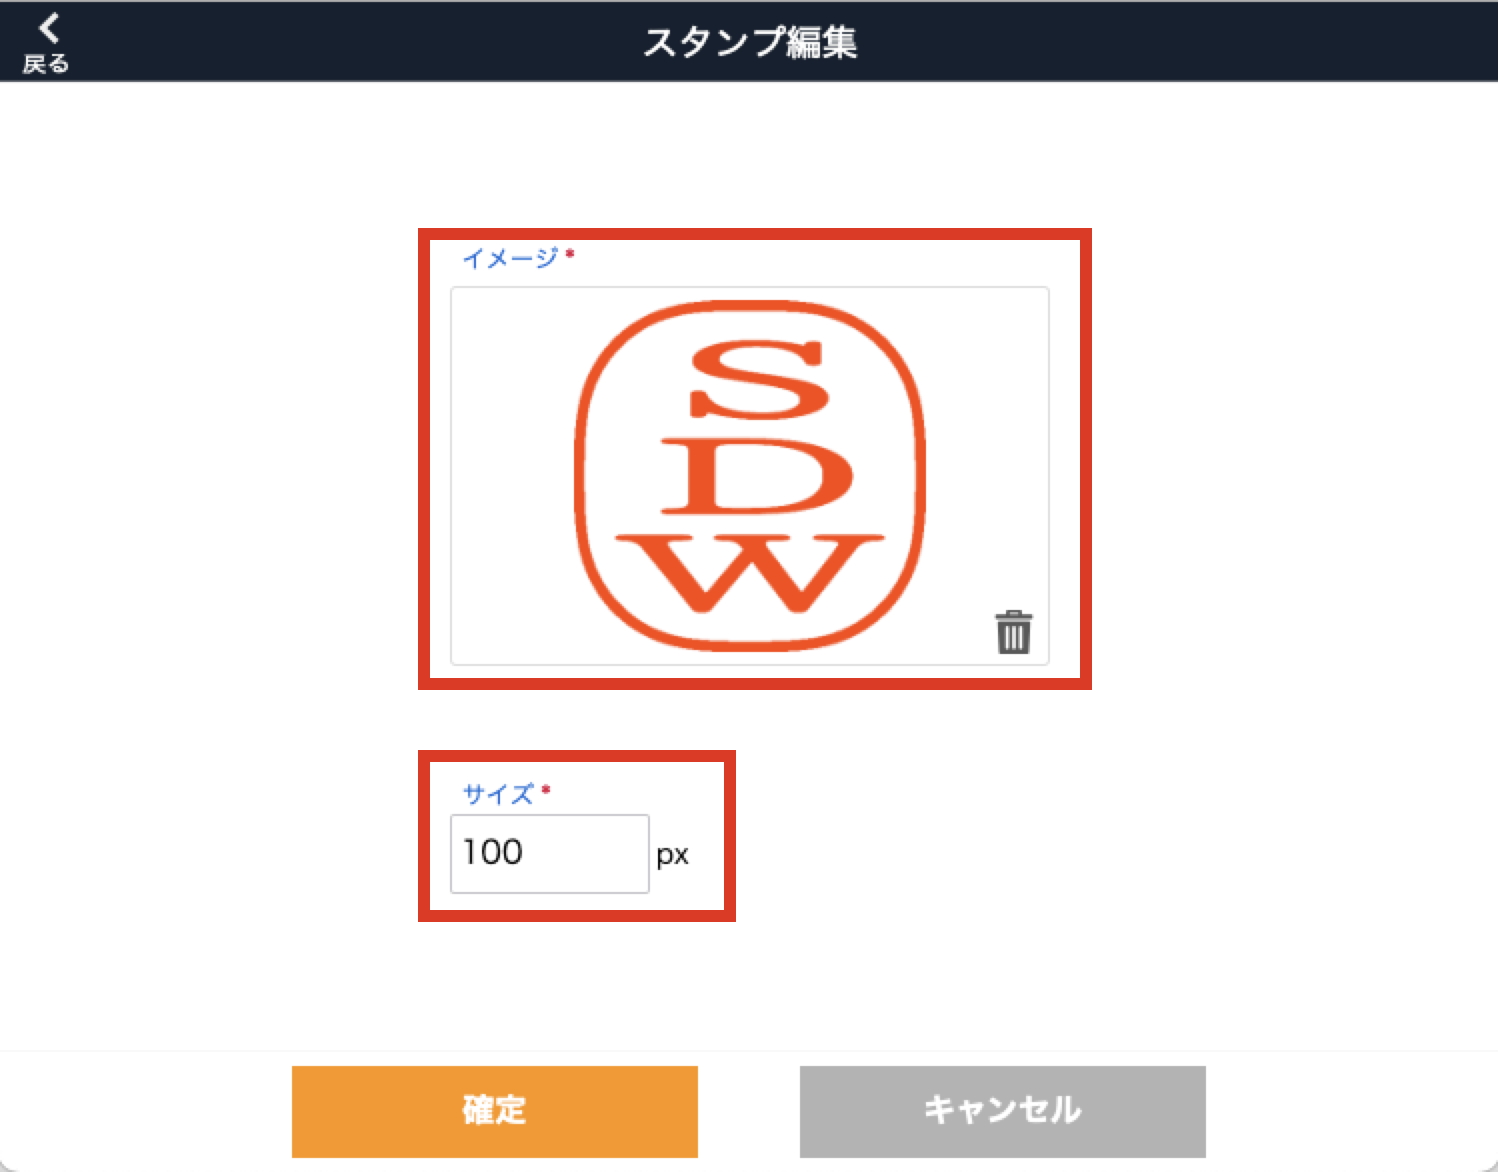
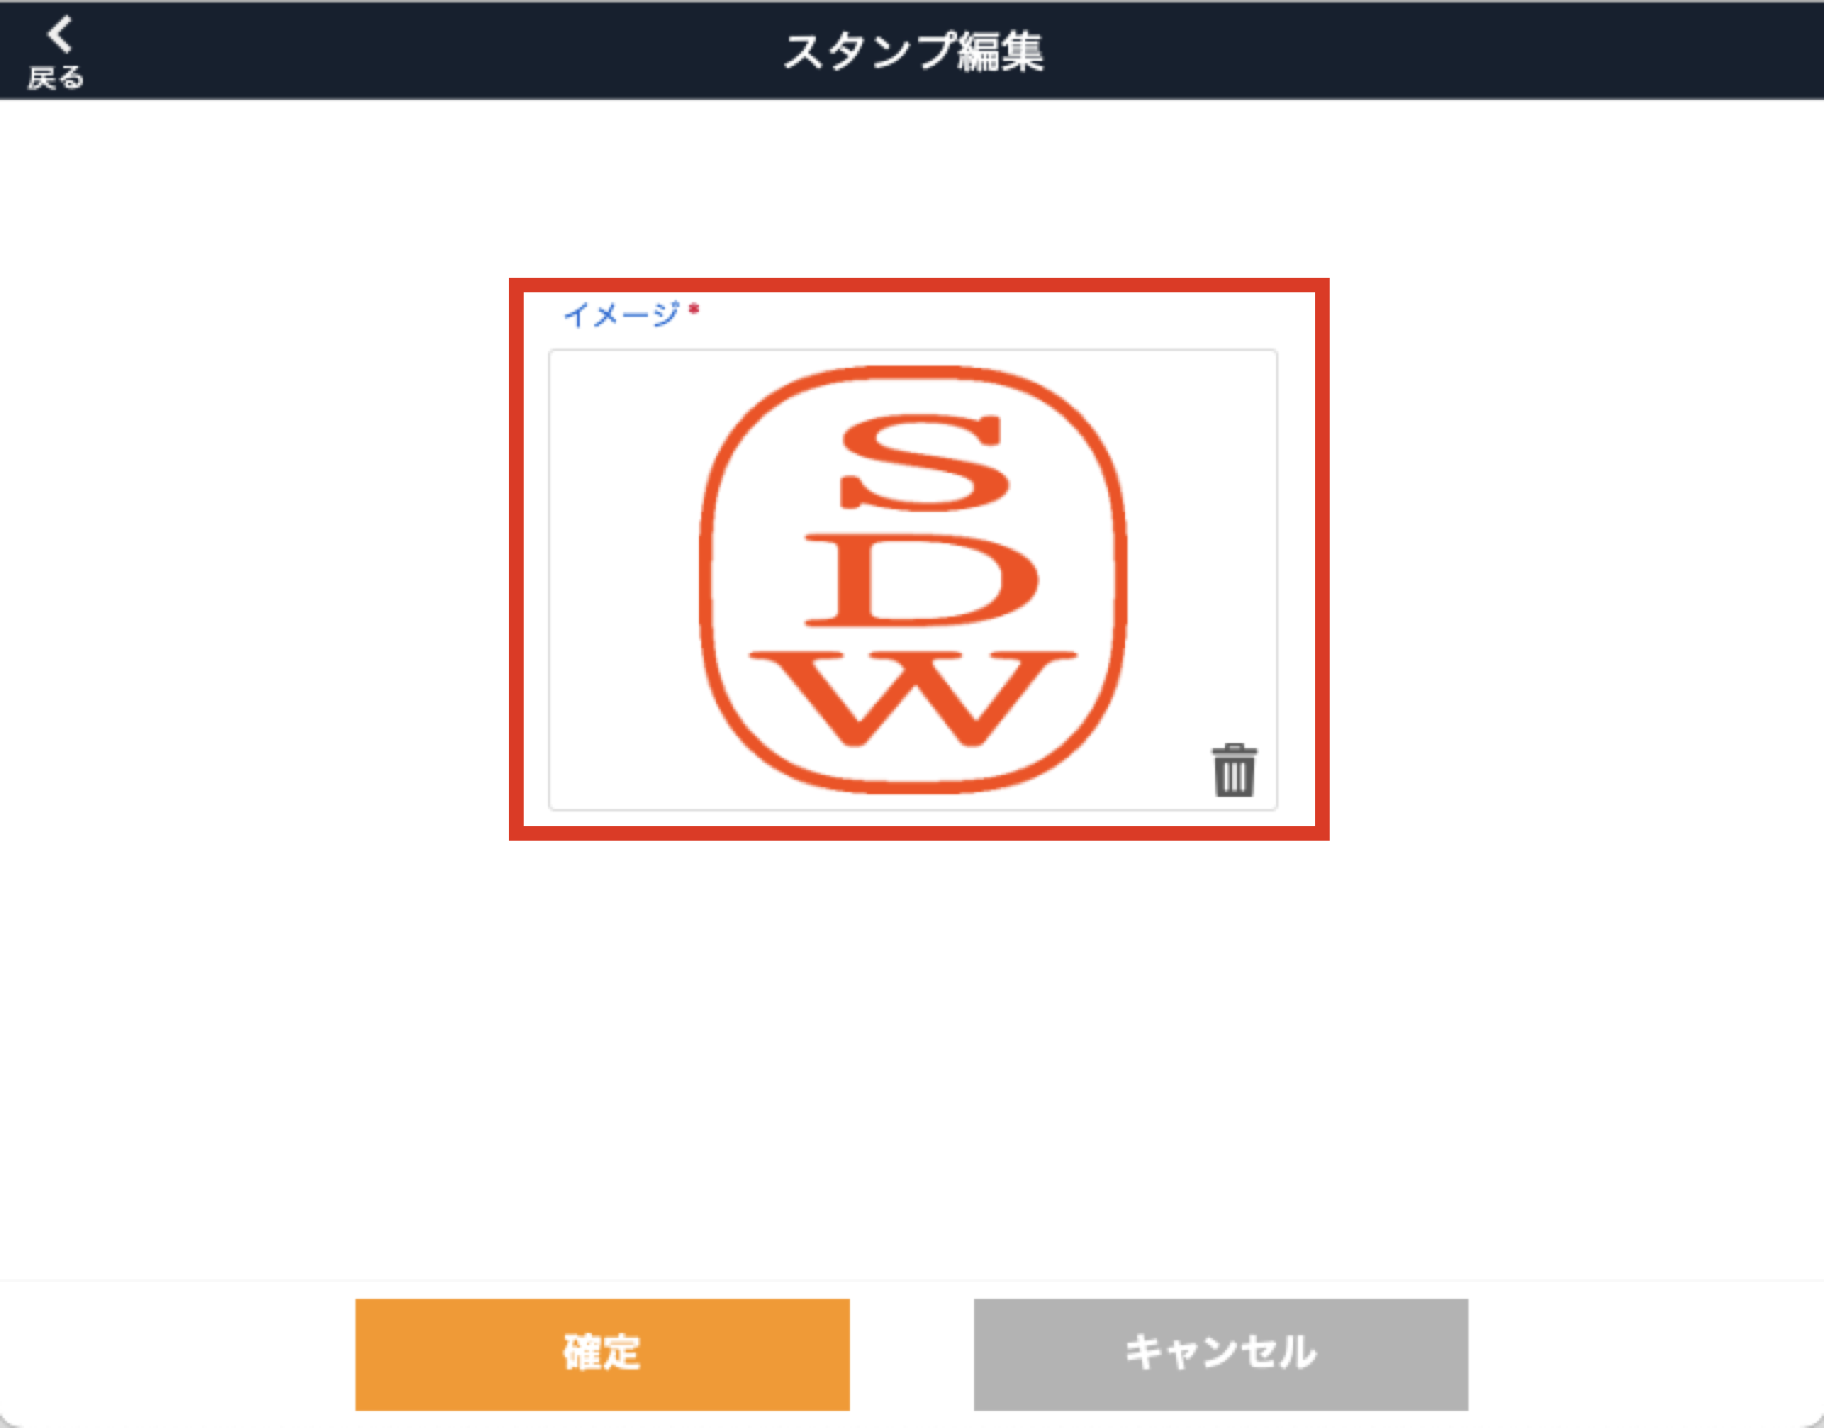
スタンプマスタ修正

Changed region(s): [[0.2764, 0.6143, 0.4913, 0.7986]]

diff --git a/docs/quality-control/pre-configuration/registration-stamp/index.md b/docs/quality-control/pre-configuration/registration-stamp/index.md
@@ -24,7 +24,8 @@ has_children: false
     <img src="../../../../assets/images/quality-control/pre-configuration/registration-stamp/2.png" width="80%">
     </td></tr></table>
 
-1. [イメージ]に登録したいスタンプ（画像）を挿入し、[サイズ]に図面に表示させたいサイズをピクセル単位で指定します。
+1. [イメージ]に登録したいスタンプ（画像）を挿入します。  
+    ここで挿入した画像のサイズがそのまま適用されます。
 
     <table><tr><td>
     <img src="../../../../assets/images/quality-control/pre-configuration/registration-stamp/3.png" width="50%">
@@ -47,16 +48,6 @@ has_children: false
     <table><tr><td>
     <img src="../../../../assets/images/quality-control/pre-configuration/registration-stamp/6.png" width="40%">
     </td></tr></table>
-
-- スタンプの編集  
-    登録済のスタンプのサイズ変更は下記のボタンから可能です。
-
-    <table><tr><td>
-    <img src="../../../../assets/images/quality-control/pre-configuration/registration-stamp/7.png" width="75%">
-    </td></tr></table>
-
-{: .warning }
-画像の差替は新規作成時しかできません。
 
 - スタンプの削除  
     スタンプの削除は下記ボタンから可能です。
